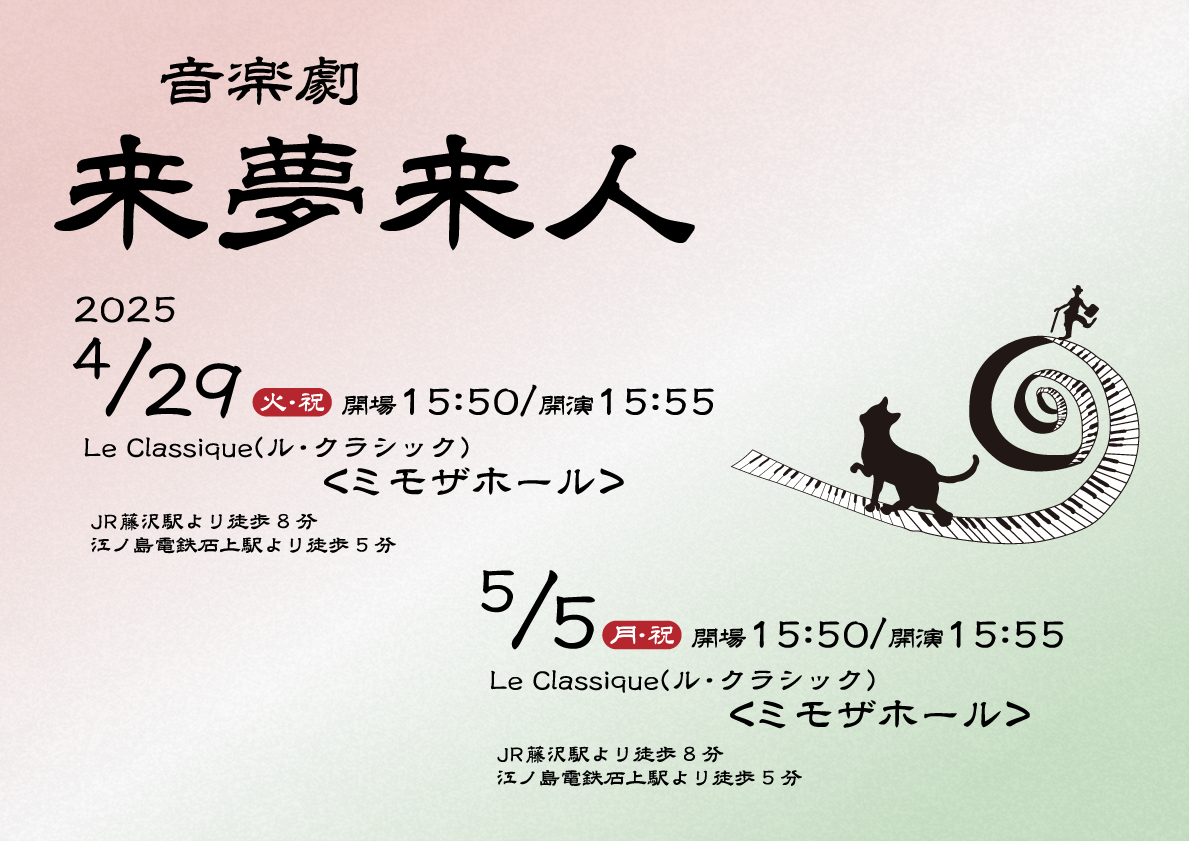
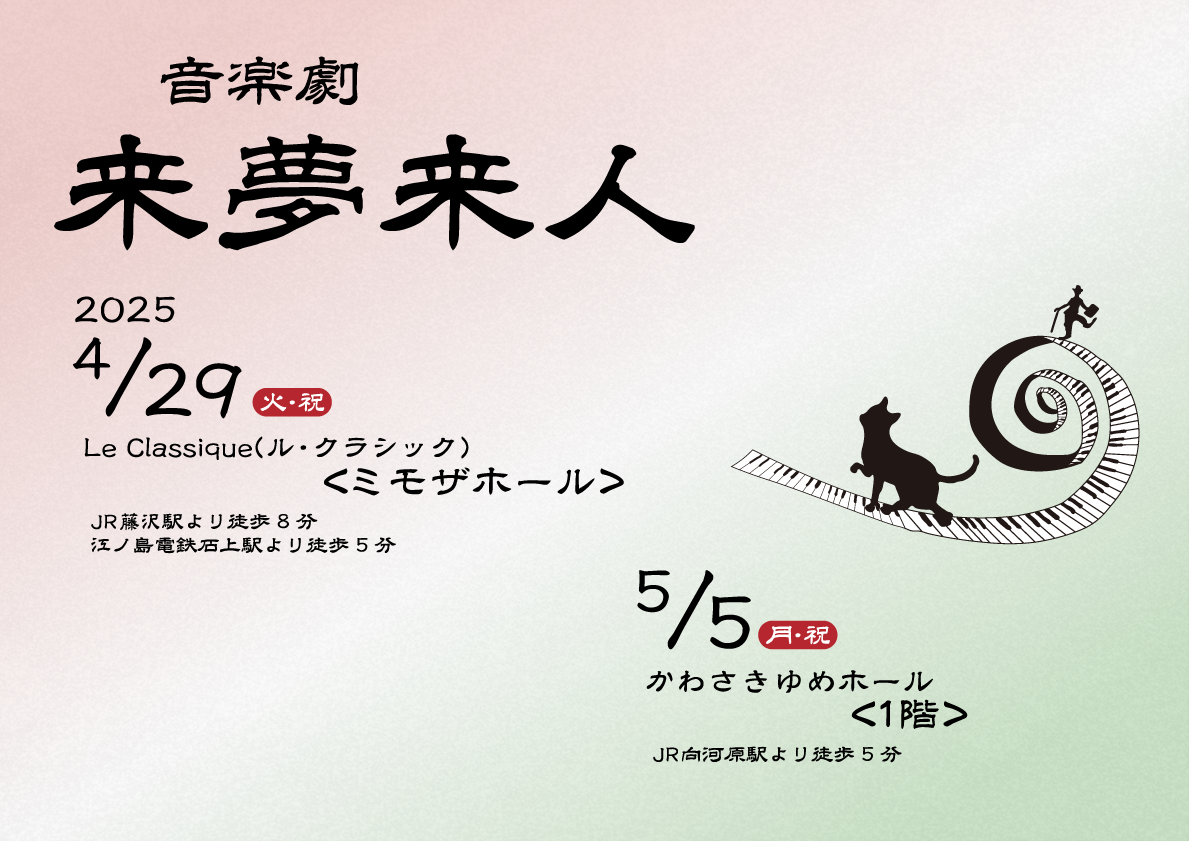
250327

Changed region(s): [[0.4045, 0.6801, 0.9024, 0.9584], [0.2801, 0.4637, 0.6224, 0.4946]]

diff --git a/news_00006.html b/news_00006.html
@@ -1,7 +1,7 @@
 <!DOCTYPE html>
 <html>
     <head>
-        <title>2025年4月29日(火・祝)藤沢・2025年5月5日(月・祝)〇〇にて音楽劇「来夢来人」に出演します-布川仁美 official website</title>
+        <title>2025年4月29日(火・祝)藤沢・2025年5月5日(月・祝)川崎にて音楽劇「来夢来人」に出演します-布川仁美 official website</title>
         <link rel="icon" href="images/NH_favicon.svg">
         <link rel="stylesheet" type="text/css" href="CSS/style.css">
         <link rel="preconnect" href="https://fonts.googleapis.com">
@@ -65,7 +65,7 @@
                     <p><a href="index.html">Top</a> > <a href="news.html">News</a> > 2025.04.02</p>
                 </section>
                 <section class="news_page_title">
-                    <h1 class="news_title">2025年4月29日(火・祝)藤沢・2025年5月5日(月・祝)〇〇にて<br>音楽劇「来夢来人」に出演します</h1>
+                    <h1 class="news_title">2025年4月29日(火・祝)藤沢・2025年5月5日(月・祝)川崎にて<br>音楽劇「来夢来人」に出演します</h1>
                     <p class="news-date">2025.04.02</p>
                 </section>
                 <section class="news-contents-box">
@@ -86,7 +86,7 @@
                             <p>時間：16時頃開演予定</p>
                             <p>
                                 会場：Le Classique(ル・クラシック) ミモザホール
-                                <br>　　　神奈川県藤沢市鵠沼橘1丁目14-12
+                                <br>　　　〒251-0024 神奈川県藤沢市鵠沼橘1丁目14-12
                             </p>
                             <p>&#9632; JR藤沢駅より徒歩8分</p>
                             <p>&#9632; 江ノ島電鉄線石上駅より徒歩5分</p>
@@ -100,22 +100,18 @@
                             <h3 class="news-ov-date">2025年5月5日(月・祝)</h3>
                             <p>時間：16時頃開演予定</p>
                             <p>
-                                会場：〇〇ホール
-                                <br>　　　神奈川県〇〇市...
+                                会場：かわさきゆめホール
+                                <br>　　　〒211-0011 神奈川県川崎市中原区下沼部1880
                             </p>
-                            <p>&#9632; JR藤沢駅より徒歩8分</p>
-                            <p>&#9632; 江ノ島電鉄線石上駅より徒歩5分</p>
+                            <p>&#9632; JR向河原駅より徒歩5分</p>
                         </div>
                         <div class="news-map">
-                            <iframe src="https://www.google.com/maps/embed?pb=!1m18!1m12!1m3!1d2703.125633640838!2d139.48324129843039!3d35.33635957566762!2m3!1f0!2f0!3f0!3m2!1i1024!2i768!4f13.1!3m3!1m2!1s0x60184e3596ce0cf3%3A0x1153d9c46ec17655!2z44Or44O744Kv44Op44K344OD44Kv!5e0!3m2!1sja!2sjp!4v1742563534725!5m2!1sja!2sjp" width="600" height="450" style="border:0;" allowfullscreen="" loading="lazy" referrerpolicy="no-referrer-when-downgrade"></iframe>
+                            <iframe src="https://www.google.com/maps/embed?pb=!1m18!1m12!1m3!1d2628.715117099472!2d139.668195667435!3d35.57017658141258!2m3!1f0!2f0!3f0!3m2!1i1024!2i768!4f13.1!3m3!1m2!1s0x60185f8ba9a31487%3A0xa55c9405e80f5937!2z44GL44KP44GV44GN44KG44KB44Ob44O844Or!5e0!3m2!1sja!2sjp!4v1743004689417!5m2!1sja!2sjp" width="600" height="450" style="border:0;" allowfullscreen="" loading="lazy" referrerpolicy="no-referrer-when-downgrade"></iframe>
                         </div>
                     </div>
                     <div class="news-gform">
                         <h2>ご予約はこちらから!!</h2>
-                        <p>2025年4月29日(火・祝)</p>
-                        <a href="https://docs.google.com/forms/d/e/1FAIpQLScdDLgwWbgDF5mAw-m47lqEN9saz-xyORcaOq8_53ZwpgDSSg/viewform?usp=header" target="_blank" rel="noopener noreferrer">ご予約専用フォーム(Googlフォーム)</a>
-                        <p>2025年5月5日(月・祝)</p>
-                        <a href="https://docs.google.com/forms/d/e/1FAIpQLScdDLgwWbgDF5mAw-m47lqEN9saz-xyORcaOq8_53ZwpgDSSg/viewform?usp=header" target="_blank" rel="noopener noreferrer">ご予約専用フォーム(Googlフォーム)</a>
+                        <a href="https://docs.google.com/forms/d/e/1FAIpQLSc1fVk79uAQnoIGYseLoq4CimV0H3FEILcD4vu1_n6UjBHXBA/viewform?usp=dialog" target="_blank" rel="noopener noreferrer">ご予約専用フォーム(Googlフォーム)</a>
                     </div>
                 </section>
                 <section class="page-share">

diff --git a/index.html b/index.html
@@ -77,7 +77,7 @@
                             <h1>News</h1>
                             <div class="tn-scroll">
                                 <div class="tn-contents">
-                                    <a href="news_00006.html">2025.04.02<br>2025年4月29日(火・祝)藤沢・2025年5月5日(月・祝)〇〇にて音楽劇「来夢来人」に出演します<img class="tn-boximg" src="images/news/news_00006.png"></a>
+                                    <a href="news_00006.html">2025.04.02<br>2025年4月29日(火・祝)藤沢・2025年5月5日(月・祝)川崎にて音楽劇「来夢来人」に出演します<img class="tn-boximg" src="images/news/news_00006.png"></a>
                                 </div>
                                 <div class="tn-contents">
                                     <a href="news_00005.html">2025.02.28<br>2025年3月20日(木・祝)横浜市栄区にて音楽劇「来夢来人」に出演します<img class="tn-boximg" src="images/news/news_00005.png"></a>

diff --git a/news.html b/news.html
@@ -81,7 +81,7 @@
                                     <p>2025.02.28</p>
                                 </div>
                                 <div id="latest-news-ct">
-                                    <a href="news_00006.html">2025年4月29日(火・祝)藤沢にて音楽劇「来夢来人」に出演します</a>
+                                    <a href="news_00006.html">2025年4月29日(火・祝)藤沢・2025年5月5日(月・祝)川崎にて音楽劇「来夢来人」に出演します</a>
                                 </div>
                             </li>
                             <li id="latest-news-box">
